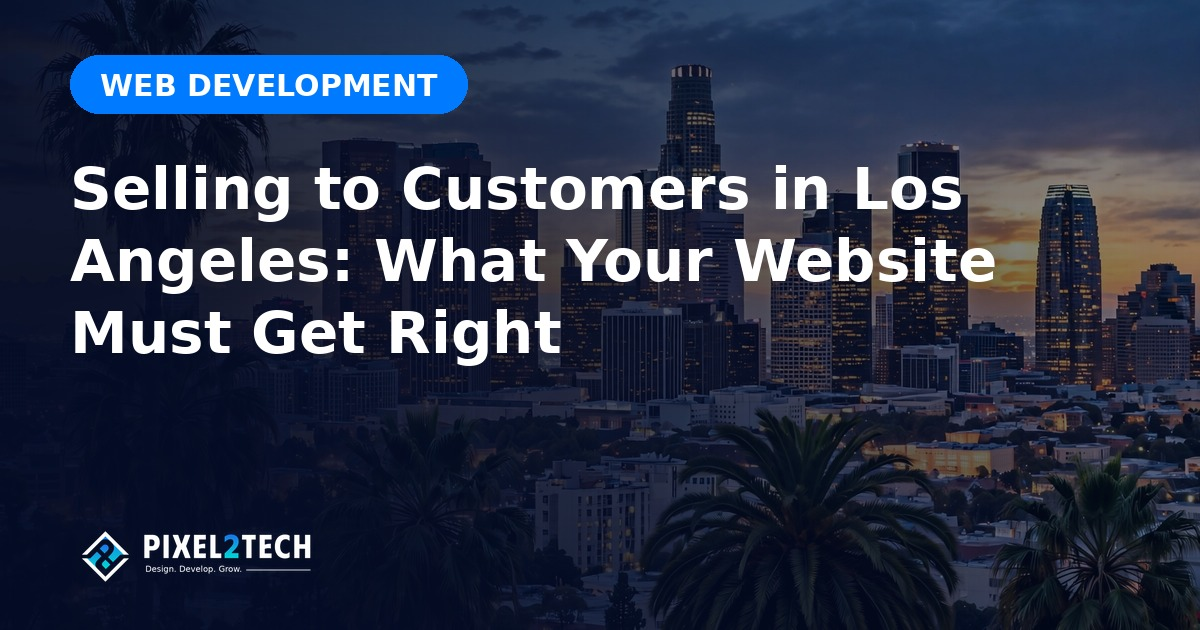
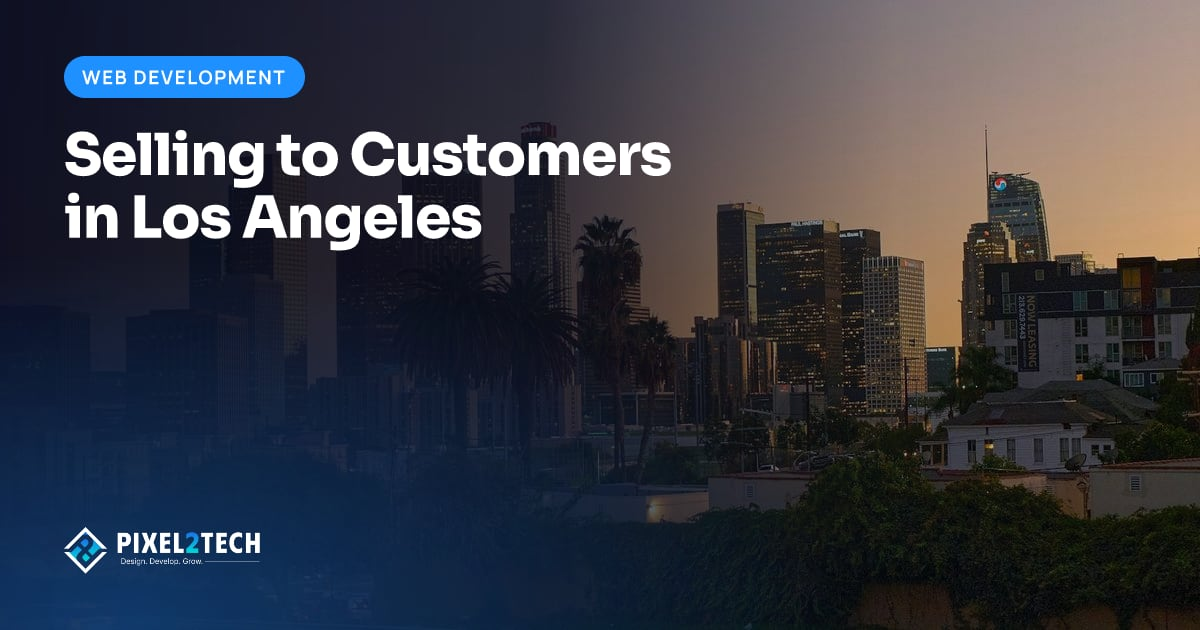
Rebuild the Los Angeles and brand story covers on the brand template

diff --git a/src/lib/blog-index.ts b/src/lib/blog-index.ts
@@ -40,7 +40,7 @@ const POSTS = [
     date: "November 10, 2026",
     time: "12:41 pm",
     author: "Asad Farooq",
-    img: "/blog/covers/selling-los-angeles-website.jpg",
+    img: "/blog/covers/selling-los-angeles-website.jpg?v=3",
     imgAlt: "Los Angeles downtown skyline at dusk with palm trees",
   },
     {
@@ -52,7 +52,7 @@ const POSTS = [
     date: "November 10, 2026",
     time: "10:52 am",
     author: "Asad Farooq",
-    img: "/blog/covers/how-to-write-brand-story-customers-remember.jpg",
+    img: "/blog/covers/how-to-write-brand-story-customers-remember.jpg?v=3",
     imgAlt: "A business owner telling a story to a customer in a bright studio",
   },
   {
